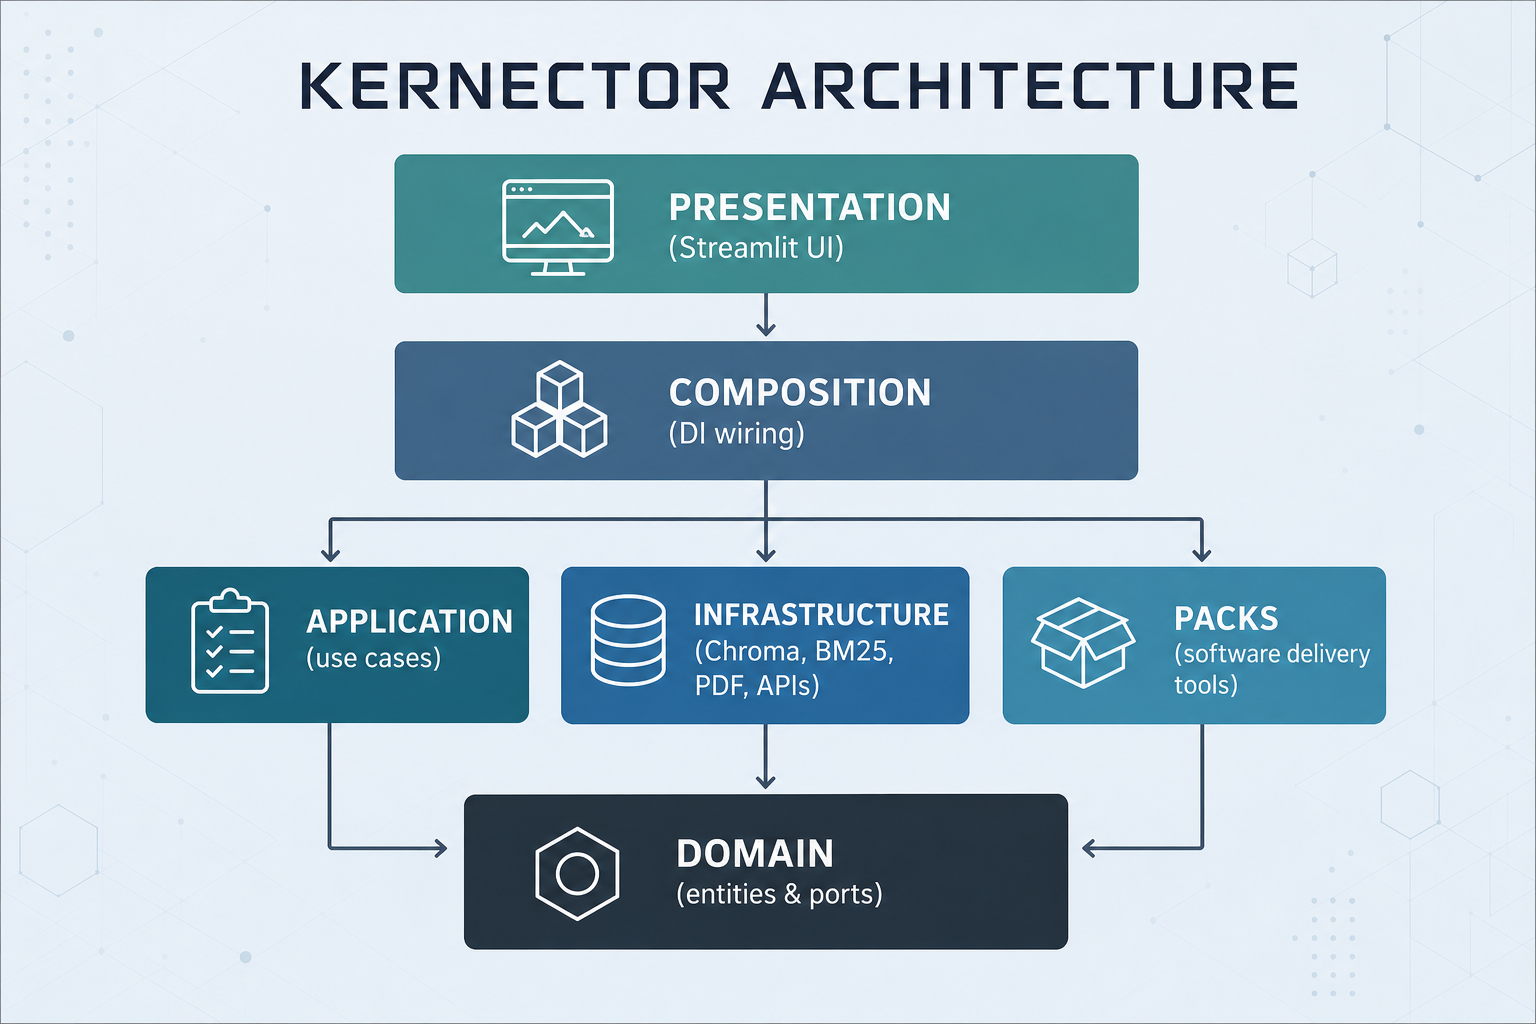
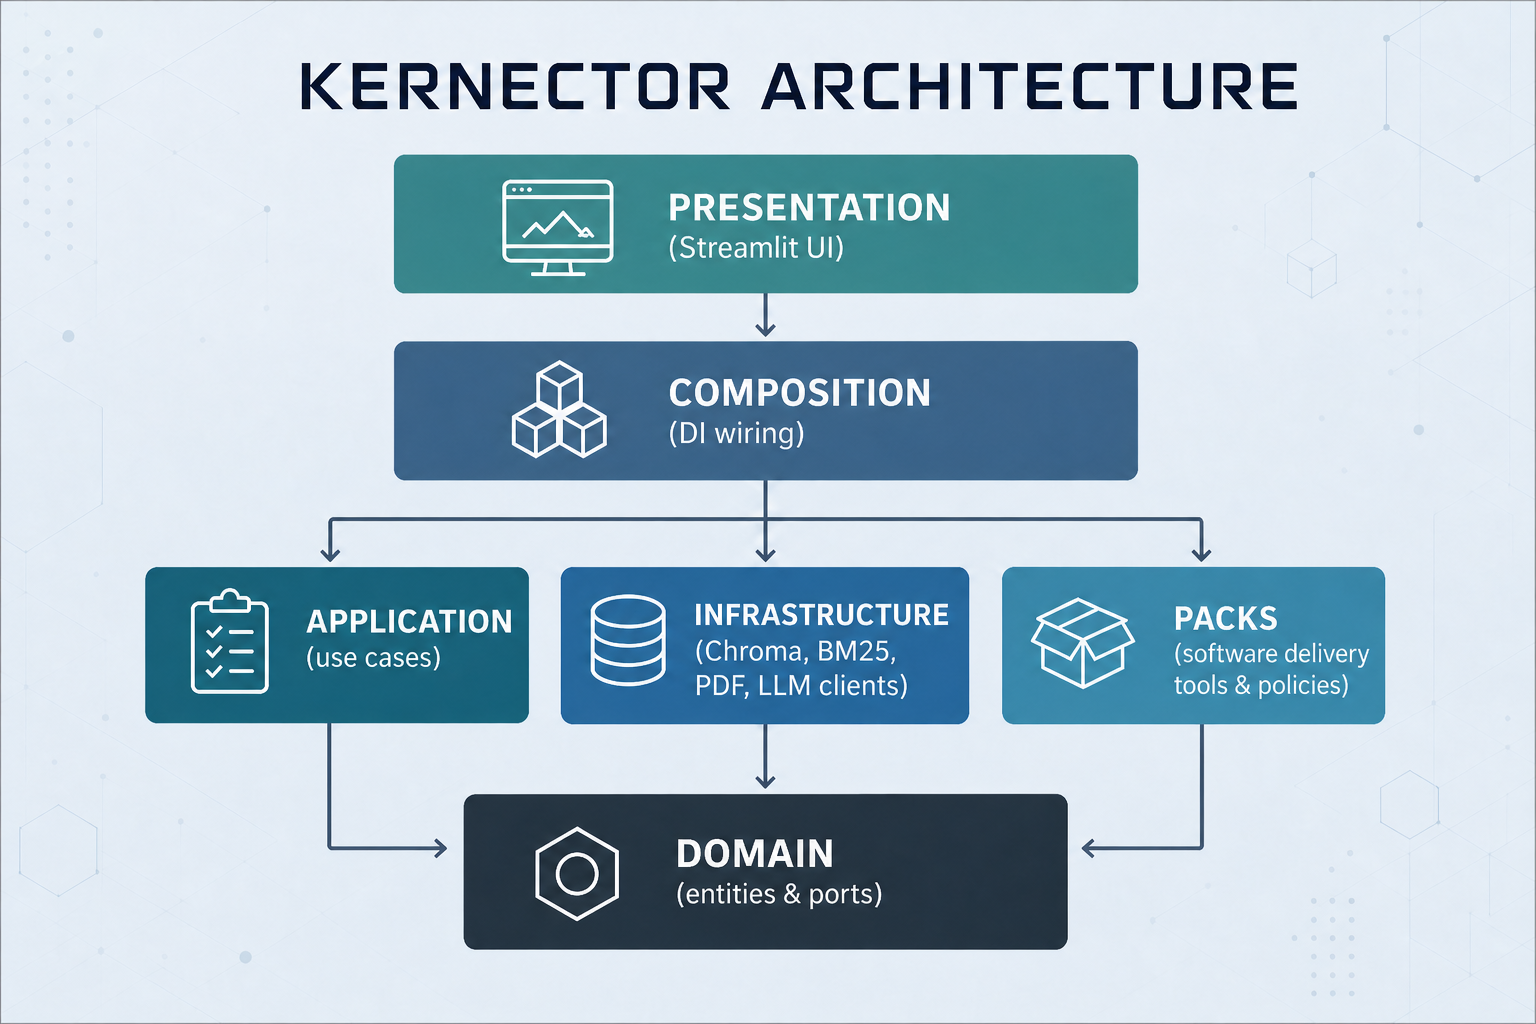
docs: align README and diagrams with implemented features
Tighten overview/pipeline/architecture visuals and README wording so only shipped ingest, Software Delivery tools/policies, and real citation fields are presented as current.

diff --git a/README.md b/README.md
@@ -2,7 +2,7 @@
 
 ![Kernector overview](docs/images/kernector-overview.png)
 
-Kernector is a domain-agnostic knowledge platform built around a shared ingest and retrieval pipeline. Connectors and uploads normalize material into `SourceDocument`; the core then chunks, embeds, stores, and retrieves with provenance so answers can cite what they used. Domain vocabulary stays out of the reusable core. Optional packs supply business meaning; replaceable source adapters supply origin-specific ingestion. The default seed corpus at `data/knowledge/documents.json` is neutral. Story Intelligence samples under `data/knowledge/packs/story-intelligence/` demonstrate a content pack without defining platform requirements.
+Kernector is a domain-agnostic knowledge platform built around a shared ingest and retrieval pipeline. Uploaded TXT, Markdown, and PDF files, plus seed JSON corpora, normalize into `SourceDocument`; the core then chunks, embeds, stores, and retrieves with provenance so answers can cite what they used. Domain vocabulary stays out of the reusable core. Optional packs supply business meaning; the current ingest adapters are file upload and the on-disk seed JSON loader. External provider connectors (for example Jira or Confluence) are planned, not shipped. The default seed corpus at `data/knowledge/documents.json` is neutral. Story Intelligence samples under `data/knowledge/packs/story-intelligence/` demonstrate a content pack without defining platform requirements.
 
 Architecture and layering live in [ARCHITECTURE.md](ARCHITECTURE.md). The domain-agnostic direction is recorded in [ADR 0001](docs/adr/0001-domain-agnostic-knowledge-foundation.md). Seed format details are in [data/knowledge/README.md](data/knowledge/README.md).
 
@@ -12,17 +12,19 @@ Dependency arrows point inward toward `domain`. Presentation never owns business
 
 ![Kernector architecture](docs/images/kernector-architecture.png)
 
-`domain/` holds entities, validation, and port protocols and imports only the standard library. `application/` implements use cases such as ingest, rewrite-and-retrieve, grounded ask, and tool invocation, speaking to the outside world only through those ports. `infrastructure/` supplies concrete adapters — Chroma vector storage, in-memory BM25, PDF/text loaders, catalog JSON, and provider clients. `packs/` are optional executable modules (today `software_delivery`) that register domain tools and intent policies without importing application or presentation code. `composition/` is the sole wiring root: it loads settings, constructs adapters, activates enabled packs through an explicit allowlist, and hands typed services to the UI. `presentation/` hosts the Streamlit app and CLI entrypoints; it calls through composition and must not construct infrastructure or import packs directly.
+`domain/` holds entities, validation, and port protocols and imports only the standard library. `application/` implements use cases such as ingest, rewrite-and-retrieve, grounded ask, and tool invocation, speaking to the outside world only through those ports. `infrastructure/` supplies concrete adapters — Chroma vector storage, in-memory BM25, PDF/text loaders, catalog JSON, and LLM provider clients. `packs/` are optional executable modules. Today `packs/software_delivery/` registers `software_delivery.risk_score`, `software_delivery.generate_test_cases`, `software_delivery.export_test_cases_markdown`, and a deterministic chat-intent policy, without importing application or presentation code. `composition/` is the sole wiring root: it loads settings, constructs adapters, activates enabled packs through an explicit allowlist, and hands typed services to the UI. `presentation/` hosts the Streamlit app and CLI entrypoints; it calls through composition and must not construct infrastructure or import packs directly.
 
-This split keeps the UI replaceable and prevents ticket- or SDLC-shaped types from re-entering the shared contracts. New source kinds arrive as connectors that emit `SourceDocument`. New product behavior arrives as a pack, not as a fork of the core pipeline.
+This split keeps the UI replaceable and prevents ticket- or SDLC-shaped types from re-entering the shared contracts. New product behavior arrives as a pack, not as a fork of the core pipeline. New source kinds would arrive as additional adapters that emit `SourceDocument`; only upload and seed JSON are implemented today.
 
 ## Knowledge path from source to cited answer
 
-Normalized documents follow one pipeline regardless of whether they arrived as an upload, a seed JSON row, or a future connector payload.
+Normalized documents follow one pipeline whether they arrived as an upload or a seed JSON row. Additional connector payloads are planned behind the same `SourceDocument` boundary.
 
 ![Knowledge pipeline](docs/images/kernector-knowledge-pipeline.png)
 
-After chunking and embedding, passages land in Chroma with metadata that preserves source identity. When hybrid search is enabled, the same corpus also feeds a BM25 lexical index; retrieval fuses the two channels with a configurable alpha weight, then applies provenance so each hit still names its origin. Grounded ask attaches retrieved chunks as context and returns citations. When a Software Delivery pack is enabled and a General-mode query explicitly requests a pack workflow (for example risk scoring or test-case generation), composition routes through evidence-bundle orchestration instead of free-form generation, still citing the underlying hits. Unmatched queries stay on the ordinary RAG path — intent matching is deterministic policy, not a speculative classifier.
+After chunking and embedding, passages land in Chroma with metadata that preserves source identity. When hybrid search is enabled, the same corpus also feeds a BM25 lexical index; retrieval fuses the two channels with a configurable alpha weight (`alpha * BM25 + (1 - alpha) * vector`), then keeps provenance on each hit. Grounded ask attaches retrieved chunks as context. Streamlit renders citations from `Citation` as source ID, source type, optional chunk index, and quote — not page or section links (see `_render_citations` in `presentation/streamlit/app.py`).
+
+When `DOMAIN_TOOL_PACKS` includes `software-delivery` and a General-mode query explicitly requests risk scoring or test-case generation, composition routes through evidence-bundle orchestration instead of free-form generation, still citing the underlying hits. Unmatched queries stay on the ordinary RAG path — intent matching is a deterministic pack policy, not a speculative classifier.
 
 ## Run the Streamlit app
 
@@ -148,7 +150,7 @@ retrieved chunks, document content, tool arguments/results, secrets, raw
 provider responses, generation settings blobs, or exception text (including
 `error_type`).
 
-The diagrams above match the current layering and pipeline contracts. Extending
-Kernector means adding connectors that emit `SourceDocument`, or packs that
-register tools behind composition’s allowlist — without widening the shared
-domain with product-specific entities.
+The diagrams document implemented layering and the current ingest path. Extending
+Kernector means enabling packs behind composition’s allowlist, or adding adapters
+that emit `SourceDocument`, without widening the shared domain with
+product-specific entities.
